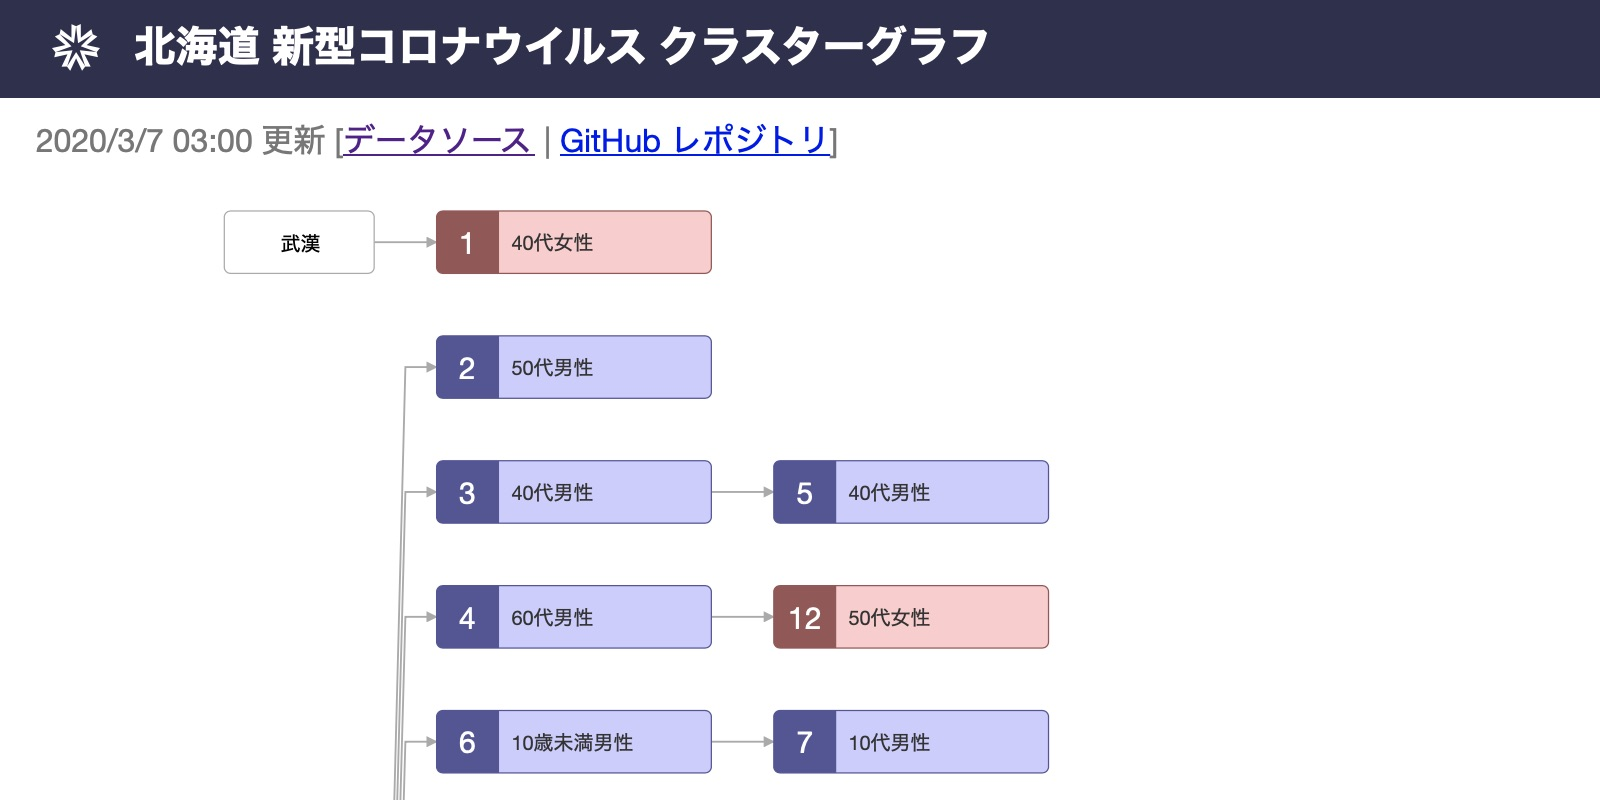
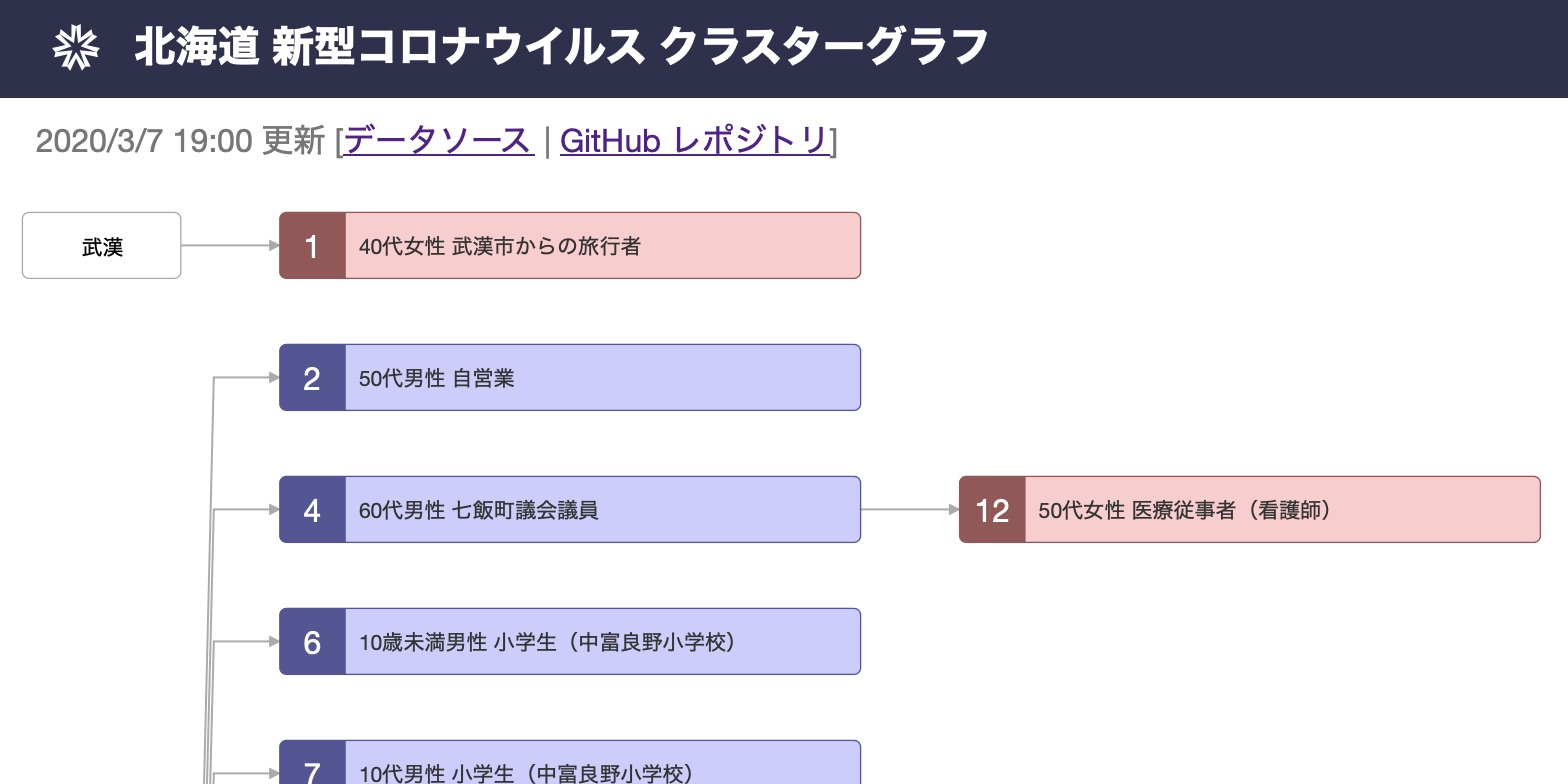
Add more detailed data

diff --git a/js/main.js b/js/main.js
@@ -25,10 +25,15 @@ var GRAPH_MARGIN = 20;
 
 var initialNodes = [
 	{ id: 'wuhan', label: '武漢' },
+	{ id: 'tokyo', label: '東京' },
+	{ id: 'osaka', label: '大阪' },
 	{ id: 'unknown', label: '不明' }
 ];
 
 var clusters = [
+	{ id: 'snow-festival', label: 'さっぽろ雪まつりクラスター', nodes:[3, 5, 19] },
+	{ id: 'kitami', label: '北見展示会クラスター', nodes:[17, 28, 33, 40, 41, 43, 60, 65, 72, 73, 74] },
+	{ id: 'live-bar', label: '札幌中ライブバークラスター', nodes:[79, 84, 85, 97, 98] }
 ];
 
 var boxColors = {
@@ -91,6 +96,7 @@ loadJSON(DATA_URL).then(function(data) {
 		var address = patient['居住地'];
 		var age = patient['年代'];
 		var sex = patient['性別'];
+		var attr = patient['属性'] || '';
 		var remarks = patient['備考'] || '';
 		var supplement = patient['補足'] || '';
 		var dead = remarks.match(/死亡/);
@@ -101,8 +107,12 @@ loadJSON(DATA_URL).then(function(data) {
 				return !isNaN(sourceId) && sourceId < id ? sourceId : 'unknown';
 			});
 
-		if (supplement.match(/武漢/)) {
+		if (attr.match(/武漢/)) {
 			sourceIds = ['wuhan'];
+		} else if (supplement.match(/東京/)) {
+			sourceIds = ['tokyo'];
+		} else if (supplement.match(/大阪/)) {
+			sourceIds = ['osaka'];
 		}
 
 		graph.setNode(id, {
@@ -110,11 +120,11 @@ loadJSON(DATA_URL).then(function(data) {
 			labelType: 'html',
 			label: '<div class="container">' +
 				'<div class="id" style="background-color: ' + colors.stroke + ';">' + id + '</div>' +
-				'<div class="label">' + age + sex + '</div>' + (
+				'<div class="label">' + age + sex + ' ' + attr + '</div>' + (
 					dead ? '<div class="dead badge">死亡</div>' : ''
 				) + '</div>',
 			labelpos: 'l',
-			width: 200,
+			width: 420,
 			height: 30,
 			rx: 5,
 			ry: 5,
@@ -124,6 +134,7 @@ loadJSON(DATA_URL).then(function(data) {
 				'<br>居住地: ' + address +
 				'<br>年代: ' + age +
 				'<br>性別: ' + sex +
+				'<br>属性: ' + attr +
 				'<br>備考: ' + remarks +
 				'<br>補足: ' + supplement +
 				'<br>発表日: ' + patient['short_date']

diff --git a/style.css b/style.css
@@ -53,7 +53,7 @@ svg#network:active {
 }
 
 div.container {
-	width: 220px;
+	width: 440px;
 	height: 50px;
 	user-select: none;
 }
@@ -70,7 +70,7 @@ div.id {
 	color: #fff;
 }
 div.label {
-	width: 170px;
+	width: 390px;
 	height: 100%;
 	padding: 10px;
 	box-sizing: border-box;
